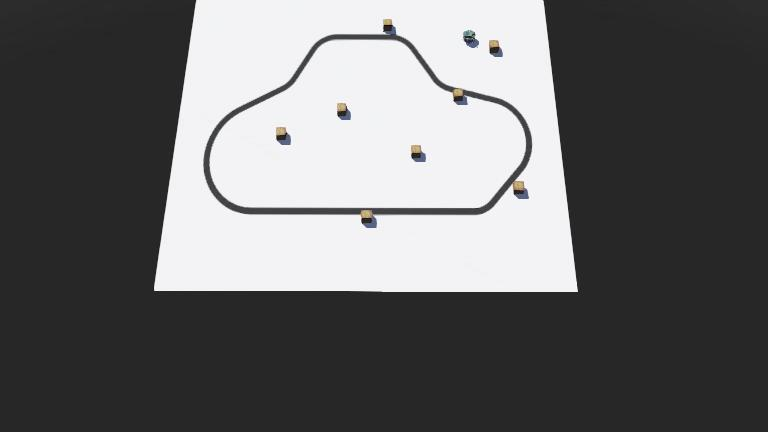
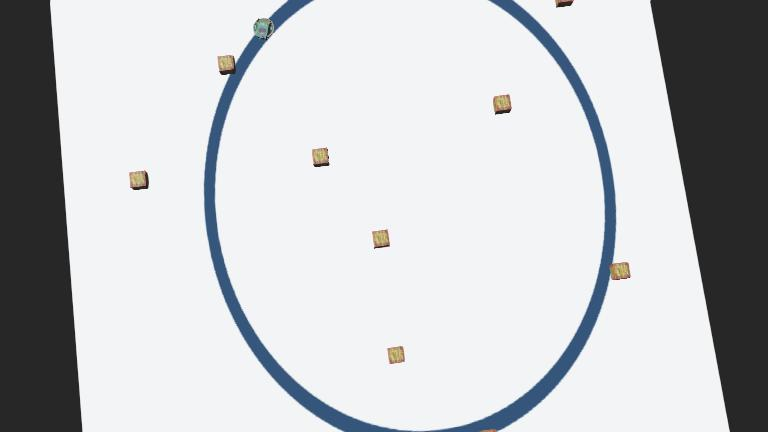
more stable agent search and smooth walking

diff --git a/controllers/my_controller/my_controller.py b/controllers/my_controller/my_controller.py
@@ -40,9 +40,10 @@ def run_robot():
     LINE_THRESHOLD = 600
 
     # obstacle detection tuned
-    OBSTACLE_THRESHOLD = 80
-    SIDE_THRESHOLD = 200
-
+    OBSTACLE_THRESHOLD = 82
+    SIDE_THRESHOLD = 80
+    # max iterations to search for line before falling back
+    MAX_SEARCH_CYCLES = 800
     # =========================
     # states
     # =========================
@@ -54,6 +55,8 @@ def run_robot():
     wall_lost = 0
     startup_ignore = 10
     is_startup = 10
+    # search timeout counter to avoid infinite circling when line lost
+    search_counter = 0
 
     # cooldown لمنع التكرار
     cooldown = 0
@@ -72,7 +75,7 @@ def run_robot():
     
         avg_ground = sum(gs_vals) / 3
     
-        print("Initializing sensors:", gs_vals)
+        # print("Initializing sensors:", gs_vals)
     
         # white floor should be high values
         if avg_ground > 600:
@@ -112,10 +115,14 @@ def run_robot():
         if is_startup != 0 and boundary_detected:
             boundary_detected = False
             is_startup -= 1
-            print("Startup boundary ignore, count:", is_startup)
-            print(boundary_detected)
+            # print("Startup boundary ignore, count:", is_startup)
+            # print(boundary_detected)
 
-        print("GS:", gs_vals)
+        # reset search counter when not actively searching
+        if state != "SEARCH_LINE":
+            search_counter = 0
+
+        # print("GS:", gs_vals)
         any_on_black = any(v < LINE_THRESHOLD for v in gs_vals)
 
         # front sensors
@@ -123,14 +130,15 @@ def run_robot():
         front_left = max(ps_vals[6], ps_vals[7])
 
         # side sensors
-        side_right = max(ps_vals[1], ps_vals[2])
-        side_left = max(ps_vals[5], ps_vals[6])
-
+        side_right = ps_vals[2]
+        side_left = ps_vals[5]
+        # print("Side sensors:", "left:", side_left, "right:", side_right)
         # obstacle detection
         obstacle_front = (
             front_right > OBSTACLE_THRESHOLD or
             front_left > OBSTACLE_THRESHOLD
         )
+        # print("Obstacle front:", obstacle_front)
 
         # =====================================================
         # FOLLOW LINE
@@ -138,7 +146,7 @@ def run_robot():
         if boundary_detected and startup_ignore <= 0:
             is_startup = 10
             print(boundary_detected)
-            print("Startup count:", is_startup)
+            # print("Startup count:", is_startup)
             print("🛑 Boundary detected!")
             # STEP 1: reverse strongly
             left_motor.setVelocity(-4.0)
@@ -146,8 +154,6 @@ def run_robot():
 
             robot.step(5000)
 
-            # STEP 2: rotate AWAY harder
-            # choose direction based on previous line side
 
             if gs_vals[0] < gs_vals[2]:
                 # line more on left before losing
@@ -173,7 +179,8 @@ def run_robot():
             if obstacle_front and cooldown == 0:
 
                 turn_dir = -1 if front_left > front_right else 1
-
+                print("Turn direction:", "right" if turn_dir == 1 else "left")
+                direction = "right" if turn_dir == 1 else "left"
                 state = "STOP"
                 counter = 0
 
@@ -182,44 +189,54 @@ def run_robot():
             else:
                 
                 if any_on_black:
-                                # entering line vertically / not aligned yet
-                    if (
-                        gs_vals[1] < 500 and
-                        abs(gs_vals[0] - gs_vals[2]) < 120
-                    ):
-                        line_reacquire_slow = 40
-                                    # line just found again
-                    if counter > 0:
-                        line_reacquire_slow = 25
-                
-                    counter = 0
-                
+
                     error = gs_vals[2] - gs_vals[0]
-                
-                else:
-                
-                    counter += 1
-                
-                    # short line loss
-                    if counter < 20:
+                    counter = 0
                     
-                        error = 250 if last_error > 0 else -250
-                
+                    is_centered = gs_vals[1] < 450 and gs_vals[0] > 650 and gs_vals[2] > 650
+                    
+
+                    if line_reacquire_slow > 0:
+                        current_speed = 0.4  # Move very slowly to allow for rotation
+                        # Increase Kp sensitivity during alignment to turn sharper
+                        correction = (Kp * 2.0) * error + Kd * (error - last_error)
+                        
+                        if is_centered:
+                            line_reacquire_slow = 0 # Exit slow mode early if we are straight
+                            print("🎯 Aligned! Speeding up.")
+                        else:
+                            line_reacquire_slow -= 1
                     else:
+                        current_speed = BASE_SPEED
+                        correction = Kp * error + Kd * (error - last_error)
                     
-                        # forward recovery movement
+                    l_speed = current_speed - correction
+                    r_speed = current_speed + correction
+                    last_error = error
+                
+                else: 
+                    counter += 1
+                    
+                    if counter < 20:
+                        error = 250 if last_error > 0 else -250
+                        
+                    elif counter < 80:
                         l_speed = 2.5
                         r_speed = 2.5
-                
-                        # slight curve memory
                         if last_error > 0:
                             l_speed += 0.7
                         else:
                             r_speed += 0.7
-                
                         left_motor.setVelocity(l_speed)
                         right_motor.setVelocity(r_speed)
-                
+                        continue
+                        
+                    else:
+                        print("⚠️ Line completely lost! Initiating spin search...")
+                        # Pass the last known direction so it spins the right way
+                        turn_dir = 1 if last_error > 0 else -1 
+                        state = "SEARCH_LINE" # Jump to your dedicated search state
+                        counter = 0
                         continue
                 d_error = error - last_error
                 last_error = error
@@ -231,7 +248,7 @@ def run_robot():
                 # slow temporarily after finding line again
                 if line_reacquire_slow > 0:
                 
-                    current_speed = 0.6
+                    current_speed = 0.3
                     line_reacquire_slow -= 1
                 
                 l_speed = current_speed - correction
@@ -256,19 +273,21 @@ def run_robot():
         elif state == "TURN_AWAY":
 
             if turn_dir == 1:
-                l_speed, r_speed = -4.0, 4.0
+                l_speed, r_speed = -6.0, 6.0
+                # print("Turning right to avoid obstacle")
             else:
                 l_speed, r_speed = 4.0, -4.0
+                # print("Turning left to avoid obstacle")
 
             counter += 1
 
-            if counter > 20:
+            if counter > 30:
                 state = "WALL_FOLLOW"
                 counter = 0
                 wall_lost = 0
 
 
-                print("🧱 Moving around obstacle")
+                # print("🧱 Moving around obstacle")
 
         # =====================================================
         # WALL FOLLOW
@@ -285,19 +304,21 @@ def run_robot():
                 wall_lost = 0
 
             else:
-
+                # print('everher')
                 wall_here = (
                     side_right > SIDE_THRESHOLD
                     if turn_dir == 1
                     else side_left > SIDE_THRESHOLD
                 )
-
-                if wall_here:
-                    l_speed, r_speed = 3.5, 3.5
-                    wall_lost = 0
+                # print("Wall here:", wall_here)
+                if direction == "right":
+                    # print("acrully right")
+                    l_speed, r_speed = 3.5, 3.0
+                    wall_lost  +=1
 
                 else:
-                    l_speed, r_speed = 3.5, 3.5
+                    # print("actually left")
+                    l_speed, r_speed = 3.0, 3.5
                     wall_lost += 1
 
             counter += 1
@@ -325,26 +346,43 @@ def run_robot():
                 print("🔍 Searching for line")
 
         # =====================================================
-        # =====================================================
         # SEARCH LINE
         # =====================================================
         elif state == "SEARCH_LINE":
-
-            if turn_dir == 1:
-                l_speed, r_speed = 3.5, 3.0
-            else:
-                l_speed, r_speed = 3.0, 3.5
-        
-            # line found again
-            if any_on_black and not obstacle_front:
             
-                state = "FOLLOW_LINE"
-                last_error = 0
-        
-                # start cooldown
-                cooldown = 40
-        
-                print("✅ Back on line")
+            if obstacle_front:
+                # Decide which way to turn based on the sensors
+                turn_dir = -1 if front_left > front_right else 1
+                
+                # Restart the obstacle avoidance process
+                state = "STOP"
+                counter = 0
+                print("New obstacle detected while searching!")
+            
+            else:
+
+                search_counter += 1
+
+                if turn_dir == 1:
+                    l_speed, r_speed = 3.5, 3.0
+                else:
+                    l_speed, r_speed = 3.0, 3.5
+
+                if search_counter > MAX_SEARCH_CYCLES:
+                    print("Search timeout reached — switching strategy")
+                    turn_dir = -turn_dir
+                    state = "TURN_AWAY"
+                    counter = 0
+                    cooldown = 50
+                    search_counter = 0
+                    l_speed, r_speed = 0.0, 0.0
+
+                if any_on_black:
+                    state = "FOLLOW_LINE"
+                    line_reacquire_slow = 500
+                    last_error = 0
+                    search_counter = 0
+                    print(" Line found! Entering precision alignment...")
         # =========================
         # speed limits
         # =========================